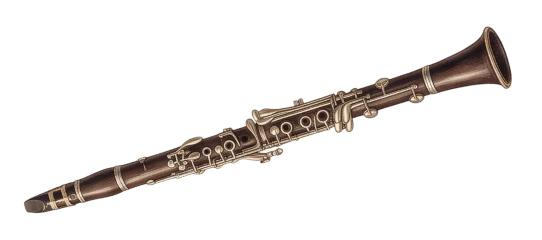
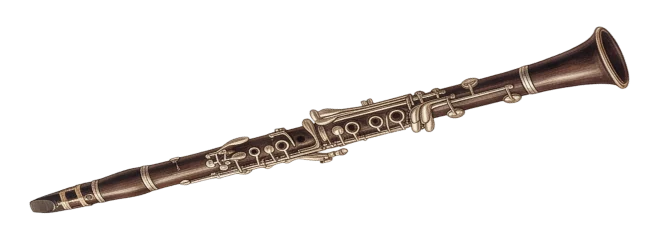
prototypes/tchaikovsky: оркестр по сценарию #17

diff --git a/prototypes/tchaikovsky/orchestra.html b/prototypes/tchaikovsky/orchestra.html
@@ -11,40 +11,42 @@
 <link rel="stylesheet" href="tokens.css">
 <link rel="stylesheet" href="kiosk.css">
 <style>
-  /* Оркестровая яма, Figma 4013:433–438. Один файл, экран выбирает data-screen у .stage:
-     intro 4013:433 · choose 4013:434 · repeat 4013:435 · success 4013:436 (Фагот), 4123:2766/2801/2836/2871/2906 · error 4013:437 · final 4013:438 */
+  /* Оркестровая яма, Figma 4013:433–438 (сценарий #17, принят Дианой 18.11). Один файл, экран выбирает data-screen у .stage:
+     intro 4013:433 · game 4013:434 (пусто), 4291:1295 (1 выбран), 4291:1341 (3), 4291:1397 (4), 4295:1403 (5) · final 4013:438.
+     Ошибки, повтора мелодии и экранов «Успех» больше нет: по нажатию карточка Selected=True, над ней приходит свой зверь и остаётся.
+     Когда собраны все пятеро, оркестр играет (звери покачиваются, звука в прототипе нет), затем финал. */
   .orch[data-screen="intro"] .screen--intro,
   .orch[data-screen="final"] .screen--final,
-  .orch:is([data-screen="choose"], [data-screen="repeat"], [data-screen="success"], [data-screen="error"]) .screen--game { display: block; }
+  .orch[data-screen="game"] .screen--game { display: block; }
 
   /* Шапка: на заставке только Меню и Звук, на остальных заголовок и Назад */
   .orch[data-screen="intro"] .header__title,
   .orch[data-screen="intro"] .back-button { visibility: hidden; }
 
-  /* Header 4013:809: Back Button на 1498, до группы Меню/Звук space/32 (в kiosk.css пока 88) */
-
   /* Заставка 4013:433 */
   .intro__bg { left: -644px; top: -396px; width: 2937px; height: 1584px; opacity: .8; transform: scaleX(-1); filter: blur(10px); }
   .intro__owl { left: 147px; top: -95px; width: 1661px; height: 1710px; }
 
-  /* Игра 4013:434–437 */
-  /* bg / луг 4013:1300: прогрессивный Layer blur 25, фильтры картинки и непрозрачность 90% запечены в meadow-blur.webp (экспорт слоя) */
+  /* Игра: bg / луг 4013:1300, прогрессивный Layer blur 25 и непрозрачность 90% запечены в meadow-blur.webp */
   .game__bg { left: -268px; top: -249px; width: 2455px; height: 1380px; }
-  /* photo / зверёк 4119:2499, 4123:2769…2909: 560×540 в 680,168, FIT */
-  .game__photo { left: 680px; top: 168px; width: 560px; height: 540px; object-fit: contain; display: none; }
-  .orch[data-screen="success"] .game__photo { display: block; }
-  .game__actions { position: absolute; left: 0; top: 724px; width: 1920px; display: flex; justify-content: center; }
-  .game__actions .button { display: none; }
-  .orch[data-screen="choose"]  [data-act="listen"],
-  .orch[data-screen="repeat"]  [data-act="repeat"],
-  .orch[data-screen="error"]   [data-act="repeat"],
-  .orch[data-screen="success"] [data-act="next"] { display: inline-flex; }
-  .orch[data-screen="success"] .arrow-button { display: none; }
-  /* Bold Restart в Button md: бокс 28 (4013:687), в отличие от Linear-иконок svg на весь бокс */
-  .strip-prev { left: 32px; top: 724px; }
-  .strip-next { left: 1808px; top: 724px; }
 
-  /* Instrument Strip 4012:140: 1856, gap space/8, шесть карточек поровну */
+  /* row / музыканты 4296:1462: x 32, y 377, пять slot 365×360 через space/8, каждый над своей карточкой.
+     Фото зверя FIT в слоте; медведь в макете сдвинут на 24 вправо внутри слота (4295:1440) */
+  .band { position: absolute; left: var(--space-32); top: 377px; width: 1856px; height: 360px; display: flex; gap: var(--space-8); pointer-events: none; }
+  .slot { position: relative; flex: 1 1 0; min-width: 0; height: 360px; }
+  .slot__photo {
+    position: absolute; left: 0; top: 0; width: 100%; height: 100%; object-fit: contain;
+    opacity: 0; translate: 0 48px; scale: .85; transform-origin: 50% 100%;
+    transition: opacity var(--duration-slow) var(--easing-out), translate 600ms var(--easing-spring), scale 600ms var(--easing-spring);
+  }
+  .slot--balalaika .slot__photo { left: 24px; }
+  .slot.is-here .slot__photo { opacity: 1; translate: 0 0; scale: 1; }
+  /* Оркестр играет: зверята покачиваются в такт, у каждого свой сдвиг фазы */
+  .orch.is-playing .slot__photo { animation: play 900ms var(--easing-sway) var(--d, 0s) infinite alternate; }
+  .slot:nth-child(2) { --d: -.3s; } .slot:nth-child(3) { --d: -.6s; } .slot:nth-child(4) { --d: -.15s; } .slot:nth-child(5) { --d: -.45s; }
+  @keyframes play { from { rotate: -3deg; translate: 0 0; } to { rotate: 3deg; translate: 0 -12px; } }
+
+  /* Instrument Strip 4012:140: 1856, gap space/8, пять карточек поровну */
   .strip { position: absolute; left: var(--space-32); top: 828px; width: 1856px; display: flex; gap: var(--space-8); }
   /* Instrument Card 4011:111: паддинг и gap space/16, radius/card-sm, Surface/glass-card + Glass, фото 120, строка подписи 52 */
   .card {
@@ -54,27 +56,26 @@
     background: var(--surface-glass-card);
     backdrop-filter: var(--glass-blur); -webkit-backdrop-filter: var(--glass-blur);
     color: var(--text-primary); text-align: center;
-    transition: background-color .15s ease, transform .15s ease;
+    transition: background-color .15s ease, scale var(--duration-press) var(--easing-out);
   }
   .card__photo { width: 100%; height: 120px; flex: none; object-fit: cover; }
-  /* row / подпись: 52, паддинг и gap space/8, по центру, Text/lg */
   .card__row {
     width: 100%; height: 52px; flex: none;
-    display: flex; align-items: center; justify-content: center; gap: var(--space-8);
+    display: flex; align-items: center; justify-content: center;
     padding: var(--space-8); border-radius: var(--radius-card-sm);
   }
-  .card__row .icon { display: none; width: 36px; height: 36px; }
-  .card:active { background: var(--surface-glass-pressed); transform: scale(.98); }
-  .orch[data-screen="choose"] .card { pointer-events: none; }
-  .orch:is([data-screen="success"], [data-screen="error"]) .card { pointer-events: none; }
-  /* Result=Correct|Wrong: строка подписи становится плашкой Accent/success|error, иконка Bold Check|Close Circle 36, Text/on-accent */
-  .card.is-correct .card__row { background: var(--accent-success); color: var(--text-on-accent); }
-  .card.is-wrong   .card__row { background: var(--accent-error);   color: var(--text-on-accent); }
-  .card.is-correct .icon--check-bold,
-  .card.is-wrong   .icon--close-bold { display: inline-grid; }
+  .card:active { background: var(--surface-glass-pressed); scale: .98; }
+  /* Selected=True: обводка 4 внутрь, Border/selected (4015:844) */
+  .card::after {
+    content: ""; position: absolute; inset: 0; border-radius: inherit; pointer-events: none;
+    box-shadow: inset 0 0 0 4px var(--border-selected); opacity: 0;
+    transition: opacity var(--duration-base) var(--easing-standard);
+  }
+  .card.is-selected::after { opacity: 1; }
+  .card.is-selected, .orch.is-playing .card { pointer-events: none; }
 
   /* Финал 4013:438 */
-  .final__bg { left: -268px; top: -249px; width: 2455px; height: 1380px; } /* 4022:682, тот же слой, что bg / луг игры */
+  .final__bg { left: -268px; top: -249px; width: 2455px; height: 1380px; }
   .final__orchestra { left: -268px; top: -263px; width: 2455px; height: 1380px; }
   .final__poppies { left: 0; top: 580px; width: 1920px; height: 500px; filter: blur(15px); }
 </style>
@@ -89,34 +90,18 @@
     <h1 class="intro-title t-display-lg">Оркестровая яма</h1>
     <img class="layer intro__owl" src="assets/orchestra/intro-owl.webp" alt="Сова-дирижёр взмахивает палочкой">
     <div class="stack stack--dark">
-      <button class="button" type="button" data-go="choose">
+      <button class="button" type="button" data-go="game">
         <span class="button__circle"><span class="icon icon--arrow-right"></span></span>
         <span class="t-label-lg">Начать</span>
       </button>
-      <p class="stack__desc t-heading-md">Слушайте инструменты и&nbsp;отгадывайте их. Как&nbsp;только найдёте все, для&nbsp;вас&nbsp;заиграет целый оркестр!</p>
+      <p class="stack__desc t-heading-md">Нажимайте на&nbsp;инструменты, и&nbsp;на&nbsp;поляну придут музыканты. Когда соберутся все пятеро, заиграет оркестр!</p>
     </div>
   </section>
 
-  <!-- Игра 4013:434 выбор · 435 повтор · 436 успех · 437 ошибка -->
-  <section class="screen screen--game" aria-label="Угадай инструмент">
+  <!-- Игра 4013:434 пусто · 4291:1295 1 выбран · 4291:1341 3 · 4291:1397 4 · 4295:1403 5 -->
+  <section class="screen screen--game" aria-label="Собери оркестр">
     <img class="layer game__bg cover" src="assets/orchestra/meadow-blur.webp" alt="">
-    <img class="layer game__photo" id="bigPhoto" src="assets/orchestra/hero-fagot.webp" alt="">
-    <div class="game__actions">
-      <button class="button button--md" type="button" data-act="listen">
-        <span class="button__circle"><span class="icon icon--play"></span></span>
-        <span class="t-label-md">Прослушать мелодию</span>
-      </button>
-      <button class="button button--md" type="button" data-act="repeat">
-        <span class="button__circle"><span class="icon icon--restart"></span></span>
-        <span class="t-label-md">Повторить мелодию</span>
-      </button>
-      <button class="button button--md button--accent" type="button" data-act="next">
-        <span class="t-label-md">Следующий инструмент</span>
-        <span class="button__circle"><span class="icon icon--arrow-right"></span></span>
-      </button>
-    </div>
-    <button class="arrow-button arrow-button--prev strip-prev" type="button" aria-label="Предыдущие инструменты"><span class="icon icon--arrow-left"></span></button>
-    <button class="arrow-button arrow-button--next strip-next" type="button" aria-label="Следующие инструменты"><span class="icon icon--arrow-left"></span></button>
+    <div class="band" id="band"></div>
     <div class="strip" id="strip"></div>
   </section>
 
@@ -150,71 +135,68 @@
 </main>
 
 <template id="cardTpl">
-  <button class="card" type="button">
+  <button class="card" type="button" aria-pressed="false">
     <img class="card__photo" alt="">
-    <span class="card__row">
-      <span class="icon icon--check-bold"></span><span class="icon icon--close-bold"></span>
-      <span class="card__label t-text-lg"></span>
-    </span>
+    <span class="card__row"><span class="card__label t-text-lg"></span></span>
   </button>
 </template>
 
 <script src="kiosk.js"></script>
 <script>
-  // Сценарий: Начать → Прослушать мелодию → выбор карточки → Верно (успех) или Неверно (ошибка, Повторить).
-  // Шесть мелодий по порядку ленты; после шестого верного ответа финал. Звука в прототипе нет.
+  // Сценарий: Начать → нажатия на инструменты в любом порядке, над каждой карточкой приходит свой музыкант и остаётся →
+  // когда собраны все пятеро, оркестр играет PLAY_MS (звука в прототипе нет) → финал.
   (function () {
     var LIST = [
-      { key: 'fagot', name: 'Фагот', hero: 'Медвежонок' }, { key: 'truba', name: 'Труба', hero: 'Ёжик' },
-      { key: 'valtorna', name: 'Валторна', hero: 'Барсук' }, { key: 'klarnet', name: 'Кларнет', hero: 'Лисёнок' },
-      { key: 'fleyta', name: 'Флейта', hero: 'Зайка' }, { key: 'goboy', name: 'Гобой', hero: 'Котёнок' }
+      { key: 'klarnet', name: 'Кларнет', hero: 'Лисёнок' }, { key: 'dombra', name: 'Домбра', hero: 'Ёжик' },
+      { key: 'bayan', name: 'Баян', hero: 'Барсук' }, { key: 'fleyta', name: 'Флейта', hero: 'Зайка' },
+      { key: 'balalaika', name: 'Балалайка', hero: 'Медвежонок' }
     ];
+    var PLAY_MS = 3000;
     var stage = document.getElementById('orch');
     var strip = document.getElementById('strip');
+    var band = document.getElementById('band');
     var tpl = document.getElementById('cardTpl');
-    var photo = document.getElementById('bigPhoto');
-    var round = 0;
+    var cards = [], slots = [], timer = null;
 
     LIST.forEach(function (it, i) {
       var c = tpl.content.firstElementChild.cloneNode(true);
       c.querySelector('.card__photo').src = 'assets/orchestra/card-' + it.key + '.webp';
       c.querySelector('.card__label').textContent = it.name;
       c.setAttribute('aria-label', it.name);
-      c.addEventListener('click', function () { answer(i, c); });
-      strip.appendChild(c);
+      c.addEventListener('click', function () { pick(i); });
+      strip.appendChild(c); cards.push(c);
+      var s = document.createElement('div');
+      s.className = 'slot slot--' + it.key;
+      s.innerHTML = '<img class="slot__photo" src="assets/orchestra/musician-' + it.key + '.webp" alt="' + it.hero + ' играет: ' + it.name.toLowerCase() + '">';
+      band.appendChild(s); slots.push(s);
     });
-    window.renderIcons(strip);
-    var cards = strip.querySelectorAll('.card');
 
-    function show(name) {
-      stage.dataset.screen = name;
-      if (name === 'choose' || name === 'repeat') cards.forEach(function (c) { c.classList.remove('is-correct', 'is-wrong'); });
+    function select(i) {
+      cards[i].classList.add('is-selected'); cards[i].setAttribute('aria-pressed', 'true');
+      slots[i].classList.add('is-here');
     }
-    function answer(i, c) {
-      if (i === round) {
-        c.classList.add('is-correct');
-        photo.src = 'assets/orchestra/hero-' + LIST[i].key + '.webp';
-        photo.alt = LIST[i].hero + ' играет: ' + LIST[i].name.toLowerCase();
-        show('success');
-      } else {
-        c.classList.add('is-wrong');
-        show('error');
+    function reset() {
+      clearTimeout(timer); stage.classList.remove('is-playing');
+      cards.forEach(function (c) { c.classList.remove('is-selected'); c.setAttribute('aria-pressed', 'false'); });
+      slots.forEach(function (s) { s.classList.remove('is-here'); });
+    }
+    function pick(i) {
+      select(i);
+      if (cards.every(function (c) { return c.classList.contains('is-selected'); })) {
+        // пятый музыкант успевает прийти, потом оркестр играет, потом финал
+        timer = setTimeout(function () {
+          stage.classList.add('is-playing');
+          timer = setTimeout(function () { stage.dataset.screen = 'final'; }, PLAY_MS);
+        }, 700);
       }
     }
-    document.querySelector('[data-go="choose"]').addEventListener('click', function () { round = 0; show('choose'); });
-    document.querySelector('[data-act="listen"]').addEventListener('click', function () { show('repeat'); });
-    document.querySelector('[data-act="repeat"]').addEventListener('click', function () { show('repeat'); });
-    document.querySelector('[data-act="next"]').addEventListener('click', function () {
-      round += 1;
-      show(round >= LIST.length ? 'final' : 'choose');
-    });
+    document.querySelector('[data-go="game"]').addEventListener('click', function () { reset(); stage.dataset.screen = 'game'; });
 
-    // Для сверки с макетом: orchestra.html#success открывает нужный экран, #success-2…6 успех на Трубе…Гобое
-    var hash = location.hash.slice(1);
-    var m = /^success(?:-(\d))?$/.exec(hash);
-    if (m) { round = m[1] ? +m[1] - 1 : 0; answer(round, cards[round]); }
-    else if (hash === 'error') { show('repeat'); answer(3, cards[3]); }
-    else if (['choose', 'repeat', 'final'].indexOf(hash) > -1) show(hash);
+    // Для сверки с макетом: #game пустая поляна, #pick-1 / #pick-3 / #pick-4 / #pick-5 как кадры «N выбрано», #final
+    var PICKS = { 1: [0], 3: [0, 1, 3], 4: [0, 1, 2, 3], 5: [0, 1, 2, 3, 4] };
+    var hash = location.hash.slice(1), m = /^pick-(\d)$/.exec(hash);
+    if (m && PICKS[m[1]]) { stage.dataset.screen = 'game'; PICKS[m[1]].forEach(select); }
+    else if (hash === 'game' || hash === 'final') stage.dataset.screen = hash;
   })();
 </script>
 <script src="motion.js"></script>
